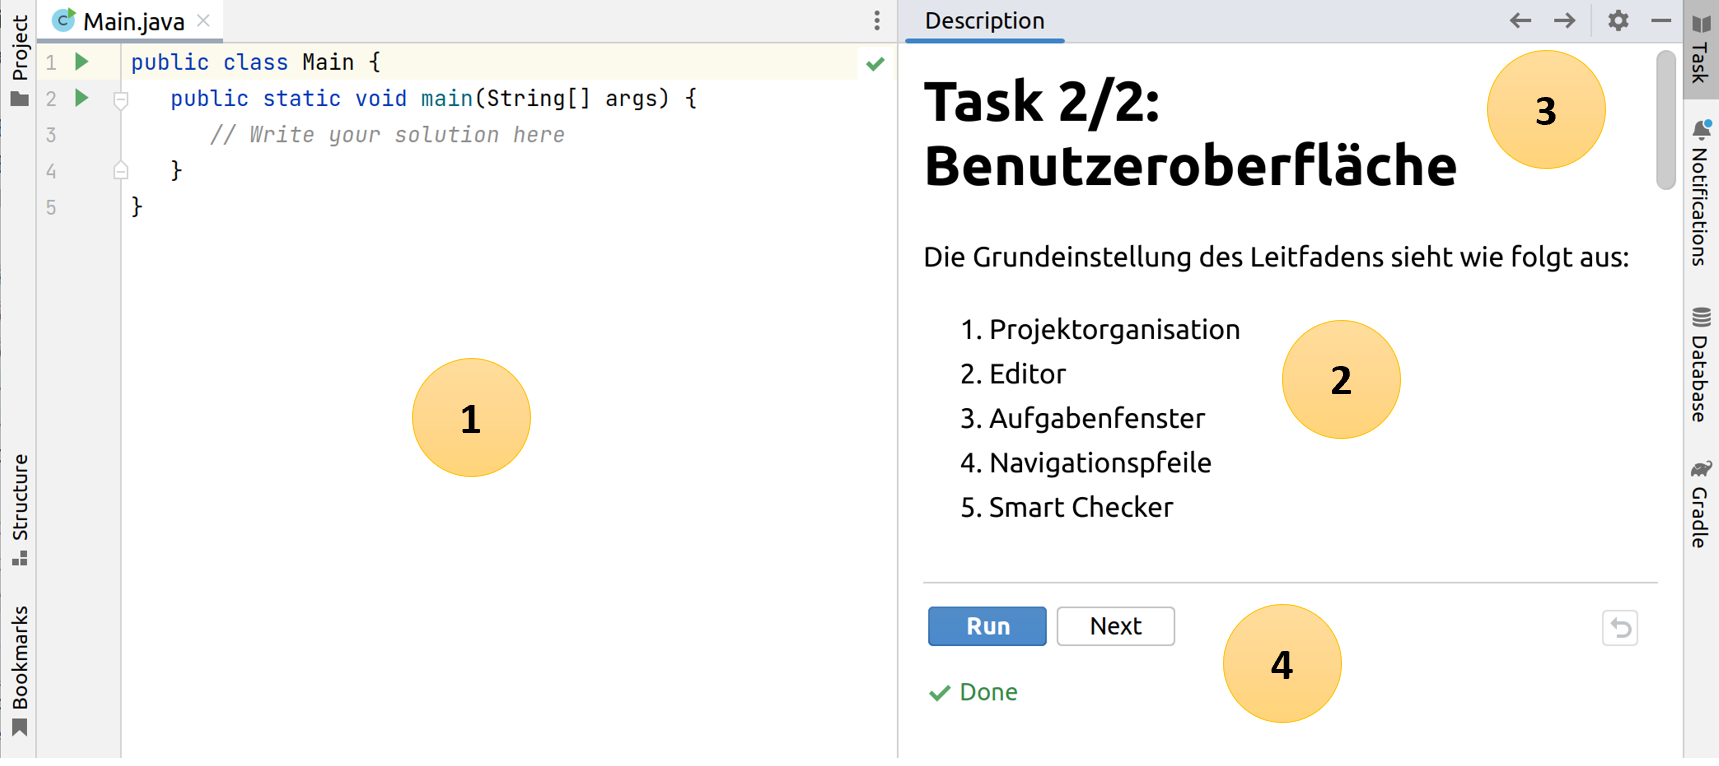
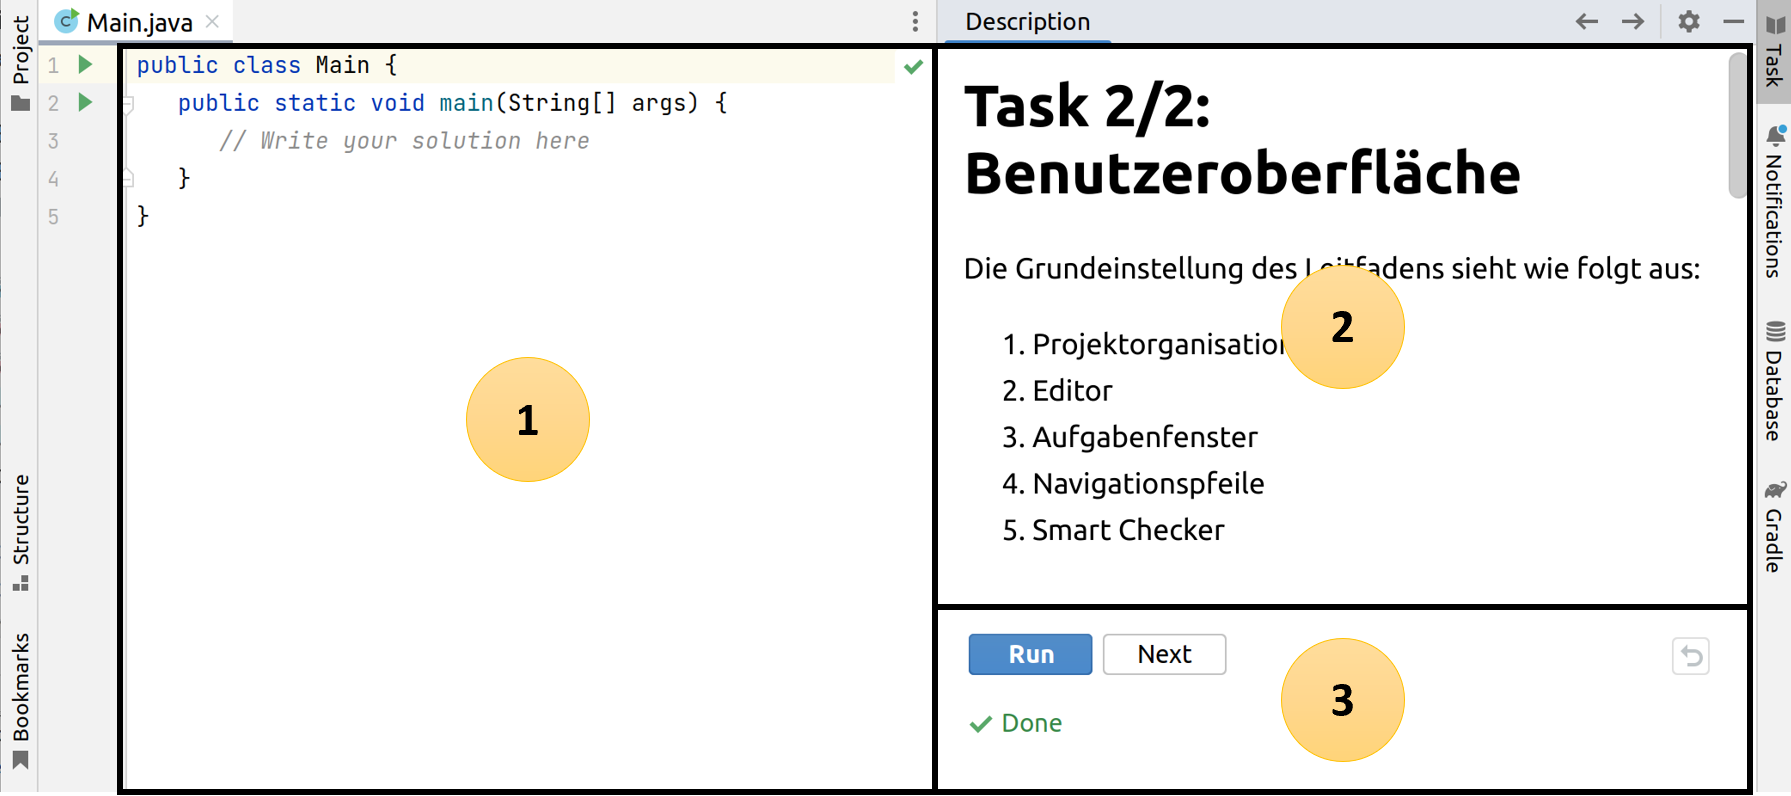
update inputs from testing

diff --git a/Tutorial/Setup/Ausführung/task.md b/Tutorial/Setup/Ausführung/task.md
@@ -1,34 +1,35 @@
-# Task 2/2: Ausführung
-In diesem Task wird eine kleine Applikation mit PI4J aufgezeigt, welche auf dem Raspberry PI ausgeführt werden soll.
-Was die Applikation genau macht, wird in einer späteren Lektion genauer erklärt.
+# Task 2/2: RunConfiguration
+Die RunConfiguration ist eine Zusammenstellung von verschiedenen Befehlen, um eine ausgewählte Applikation auszuführen.
 
-## Remote Ausführung
-In diesem Task wurde eine Running-Config hinterlegt. Diese kann wie hier im Bild aufgezeigt ausgewählt werden:
+Im Fall des Leitfadens wird die RunConfiguration benutzt, um die Applikation zu übersetzen, auf dem Raspberry Pi
+bereitzustellen und auszuführen.
 
-<img src="./SetupAusfuehrungRunConfig.png" alt="Run Configuration" width="400"/>
+## Auswählen der RunConfiguration
+Um die Applikation auf dem Raspberry Pi auszuführen, muss die entsprechende RunConfiguration im Drop Down Menü (1)
+ausgewählt und danach mit dem grünen Pfeil (2) gestartet werden.
+
+<img src="RunConfiguration.png" alt="RunConfiguration" width="400">
+
+---
+> **_Resultat:_**
+>
+> Im Terminal sollen die zwei Zeilen **Application is running** und **Application is done** 
+> sichtbar sein.
+---
+
+## Anpassen der RunConfiguration
+Muss eine Konfiguration angepasst werden, weil zum Beispiel die IP-Adresse gewechselt werden muss, kann im Drop Down Menü
+*Edit Configuration* angewählt werden
+<img src="EnterEditRunConfiguration.png" alt="EnterEditRunConfiguration" width="400">
+Es öffnet sich ein neues Fenster. Zuerst links im Fenster die entsprechende RunConfiguration auswählen. Danach lassen sich
+die gewünschten Parameter editieren. Zum Beispiel kann anstelle des Hostname eine IP-Adresse vergeben werden.
+<img src="EditRunConfiguration.png" alt="EditRunConfiguration" width="400">
 
 Mit der richtigen ausgewählten Running-Config, kann das Programm gestartet werden.
 Die Applikation wird auf das Raspberry Pi geladen und automatisch ausgeführt.
 Folgende bekannte Probleme können auftreten:
 - Benutzername und Passwort des Raspberry Pi stimmen nicht mit der Running-Config überein -> PW auf Pi oder in Running-Config anpassen.
-- Im gleichen Netzwerk gibt es mehr als ein Pi mit dem Namen Crowpi.local oder keinen -> IP-Adresse anstelle von Namen in der Running-Config verwenden.
-
-# Aufgabe
-
-## Programmierung
-Im Code auf der linken Seite wird zuerst der Pi4J Context erstellt. Danach wird auf der Konsole die beiden Strings:
-"Application is running" und "Application is done" ausgegeben, bevor das Programm wieder endet.
-
----
-> **_Hinweis:_** Der Code wird zu einem späteren Zeitpunkt genau erklärt und muss hier nicht verstanden werden.
----
-
-## Check Programmierung
-Überprüfe die Programmierung mit dem *Check* Button unten links.
-
-## Remote Ausführung
-Die Applikation ist nun bereit, um auf dem Pi ausgeführt zu werden. Dazu ist eine
-Running-Config *Setup-Ausführung* hinterlegt.
+- Im gleichen Netzwerk gibt es mehr als ein Pi mit dem Namen Crowpi.local -> IP-Adresse anstelle von Namen in der Running-Config verwenden.
 
 Konnte die Applikation erfolgreich auf dem Raspberry Pi ausgeführt werden kann mit dem Button *Next* zum nächsten Task
 gewechselt werden.

diff --git a/Tutorial/Einführung/Benutzeroberfläche/task.md b/Tutorial/Einführung/Benutzeroberfläche/task.md
@@ -1,11 +1,10 @@
-# Task 2/10: Benutzeroberfläche
+# Task 2/9: Benutzeroberfläche
 Die Grundeinstellung des Leitfadens sieht wie folgt aus:
 
 ![Benutzeroberflaeche](./Benutzeroberflaeche.png)
 
 1. Editor
 2. Aufgabenfenster
-3. Navigationspfeile
 4. Smart Checker
 
 ## Editor
@@ -14,9 +13,6 @@ Der Leitfaden beinhaltet diverse praktische Programmieraufgaben, welche im Edito
 ## Aufgabenfenster
 Im Aufgabenfenster wird, je nach Aufgabe, die Theorie zur Lektion vermittelt, Multiple-Choice-Fragen zur Lektion
 oder praktische Aufgaben gestellt, welche im Editor gelöst werden müssen.
-
-## Navigationspfeile
-Mit den Navigationspfeilen kann zwischen den einzelnen Tasks einer Lektion hin- und hergesprungen werden.
 
 ## Smart Checker
 Mit dem Smart Checker kann die Lösung überprüft und zum nächsten Task in der Lektion gesprungen werden. 

diff --git a/Tutorial/Einführung/Übersicht/task.md b/Tutorial/Einführung/Übersicht/task.md
@@ -1,18 +1,18 @@
-# Task 1/10: Übersicht
-In dieser Lektion sollen die Funktion und die Bedienung des *Leitfadens* erklärt werden. Dazu sind folgende Themen beschrieben:
+# Task 1/9: Übersicht
+In dieser Lektion sollen die Funktion und die Bedienung des *Leitfadens* erklärt werden.
 
 ## Lernziele
 Wenn alle Fragen mit Ja beantwortet werden können, kann das Kapitel übersprungen werden, und mit der nächsten
 Lektion weitergemacht werden.
 
+- Übersicht
 - Aufbau der Benutzeroberfläche
 - Navigation im Leitfaden
 - Aufbau einer Lektion
+- - Was ist ein *Hint*
 - Erklärung eines *Theory Task*
 - Erklärung eines *Multiple Choice Task*
 - Erklärung eines *Educational Task*
-- Was ist ein *Hint*
-- Was ist eine *Run Configuration*
 
 [Sprung zur nächsten Lektion: Setup](course://Tutorial/Setup/Einführung/src/Main.java)
 

diff --git a/Tutorial/Einführung/EducationalTask/task.md b/Tutorial/Einführung/EducationalTask/task.md
@@ -1,15 +1,10 @@
-# Task 8/10: EducationalTask
+# Task 9/9: EducationalTask
 Der **Educational Task** ist ein Task, um Programmieraufgaben zu lösen. Jeder Task hat ein Main.java File mit unterschiedlichen
 Aufgaben. Mit Platzhaltern ist ersichtlich, welche Aufgabe an welcher Stelle im Code gelöst werden muss.
 Im Aufgabenfenster sind alle wichtigen Informationen zu den Aufgaben vorhanden.
 
 Im *Smart Checker* gibt es neben dem bekannten *Next* Button einen Button *Check*. Mit diesem Button lässt sich der erstellte 
 Code überprüfen.
-
-Nachdem ein Check durchgeführt wurde, kann mit Peak Solution (1) die Musterlösung betrachtet werden.
-
-<img src="./PeakSolution.png" alt="PeakSolution" width="350"/>
-
 
 ## Aufgabe
 Gib den Text *Hello world, hello Leitfaden* auf der Konsole aus.

diff --git a/Tutorial/Setup/Einführung/task.md b/Tutorial/Setup/Einführung/task.md
@@ -1,6 +1,6 @@
 # Task 1/2: Einführung
-Diese Lektion dient der Überprüfung, ob alle Prerequisiten erfüllt sind, ob die Hilfestellungen in Bezug
-auf die PI4J-Library bekannt sind, und ob das Tutorial richtig verwendet werden kann.
+Diese Lektion dient der Überprüfung, ob Intellij und das Raspberry Pi richtig eingestellt sind und ob die Kommunikation 
+zwischen deinem PC und dem Raspberry Pi funktioniert.
 
 ## Lernziele
 - Ich kann per Remote-Ausführung meinen Code auf dem Raspberry PI testen.

diff --git a/Tutorial/Einführung/Hint/task.md b/Tutorial/Einführung/Hint/task.md
@@ -1,8 +1,8 @@
-# Task 9/10: Hint
+# Task 5/9: Hint
 An diversen Stellen im Leitfaden sind Hilfestellungen, sogenannte *Hints* platziert. Diese sind eine Unterstützung,
 die richtige Lösung zu finden. Benutze den untenstehenden Hint, um die Multiple-Choice-Frage richtig zu beantworten. 
 Hints können per Klick geöffnet werden.
 
 <div class="hint">
-  Der Begriff "Computer Bug" wurde in der Tat von einem echten Insekt inspiriert.
+  Die richtige Antwort ist 13845.
 </div>

diff --git a/Tutorial/Einführung/MultipleChoiceTask/task.md b/Tutorial/Einführung/MultipleChoiceTask/task.md
@@ -1,4 +1,4 @@
-# Task 6/10: MultipleChoiceTask
+# Task 7/9: MultipleChoiceTask
 Im **Multiple-Choice Task** werden Fragen zur aktuellen Lektion gestellt. Die möglichen Antworten sind im Bereich
 des Smart Checkers aufgelistet. Wie im *Theory Task* gibt es auch hier einen Button *Next*, um zum nächsten Task zu wechseln.
 Zudem gibt es den Button **Check**, mit welchem die Antworten der Multiple-Choice-Frage gleich überprüft werden können.

diff --git a/Tutorial/Einführung/BugMultipleChoiceTask/task.md b/Tutorial/Einführung/BugMultipleChoiceTask/task.md
@@ -1,4 +1,4 @@
-# Task 7/10: MultipleChoiceTask
+# Task 8/9: MultipleChoiceTask
 Bei Multiple-Choice-Fragen mit viereckigen Checkboxen (siehe unten) sind mehrere Antworten richtig. Die Aussage 
 *Select one option from the list* kann leider nicht geändert werden. Es gilt:
 - runde Checkbox -> nur eine Option ist richtig

diff --git a/Tutorial/Einführung/Theory Task/task.md b/Tutorial/Einführung/Theory Task/task.md
@@ -1,4 +1,4 @@
-# Task 5/10: Theory Task
+# Task 6/9: Theory Task
 Der Leitfaden ist in einzelne Lektionen unterteilt und jede Lektion hat unterschiedliche Tasks.
 Es gibt drei unterschiedliche Arten von Tasks. Den *Theory Task*, den *Multiple Choice Task*
 und den *Educational Task*. 

diff --git a/Tutorial/Einführung/Navigation/task.md b/Tutorial/Einführung/Navigation/task.md
@@ -1,4 +1,4 @@
-# Task 3/10: Navigation
+# Task 3/9: Navigation
 Mit den Pfeiltasten (1) kann zum nächsten Task bez. zum vorangehenden Task gewechselt werden, auch wenn der aktuelle Task
 nicht gelöst ist.
 

diff --git a/Tutorial/Einführung/Lektionsaufbau/task.md b/Tutorial/Einführung/Lektionsaufbau/task.md
@@ -1,4 +1,4 @@
-# Task 4/10: Lektionsaufbau
+# Task 4/9: Lektionsaufbau
 Der Leitfaden ist in die unten aufgelisteten Lektionen unterteilt:
 
 1. Einführung
